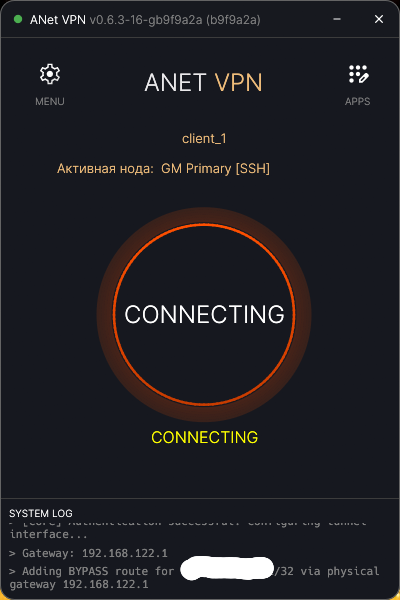
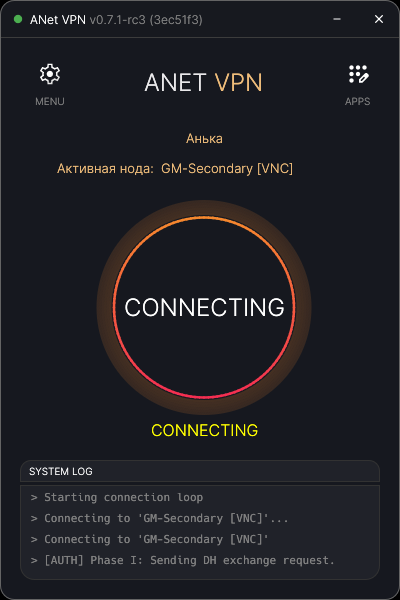
v0.4

diff --git a/anet-client-gui/src/app.rs b/anet-client-gui/src/app.rs
@@ -1780,7 +1780,7 @@ impl eframe::App for ANetApp {
                     }
 
                     // 📌 РИСУЕМ ОСНОВНОЙ КОНТУР КРУГА С ГРАДИЕНТОМ
-                    let stroke_width = 2.5;
+                    let stroke_width = 5.0;
                     let segments = 128;
 
                     for i in 0..segments {
